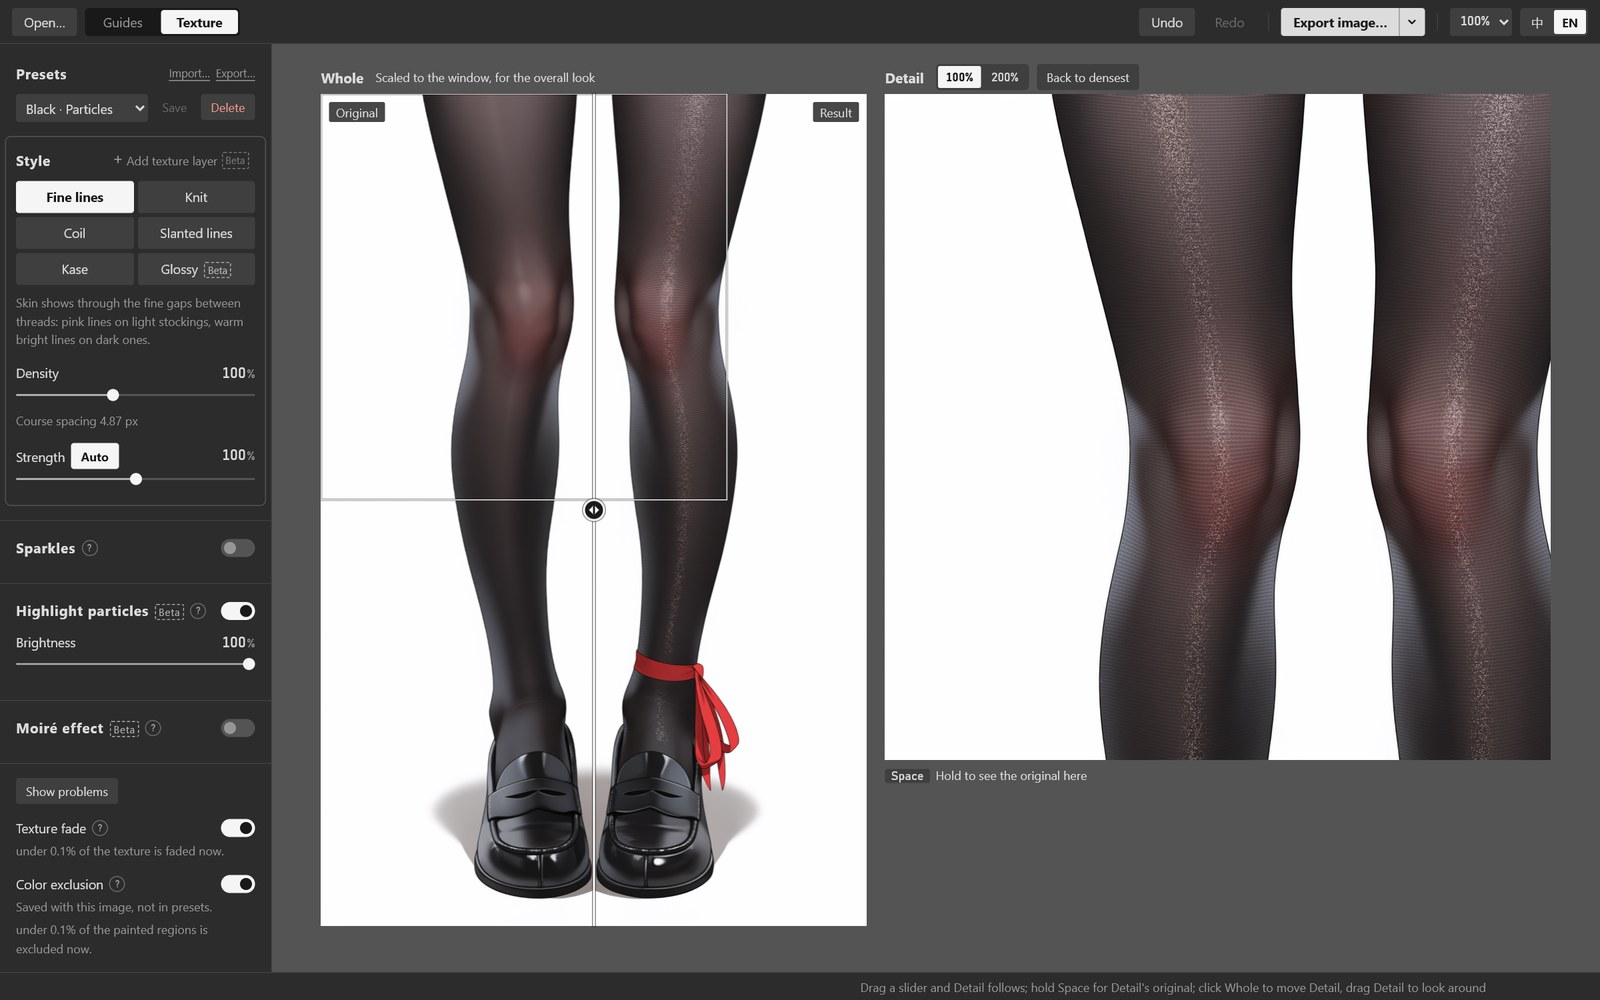
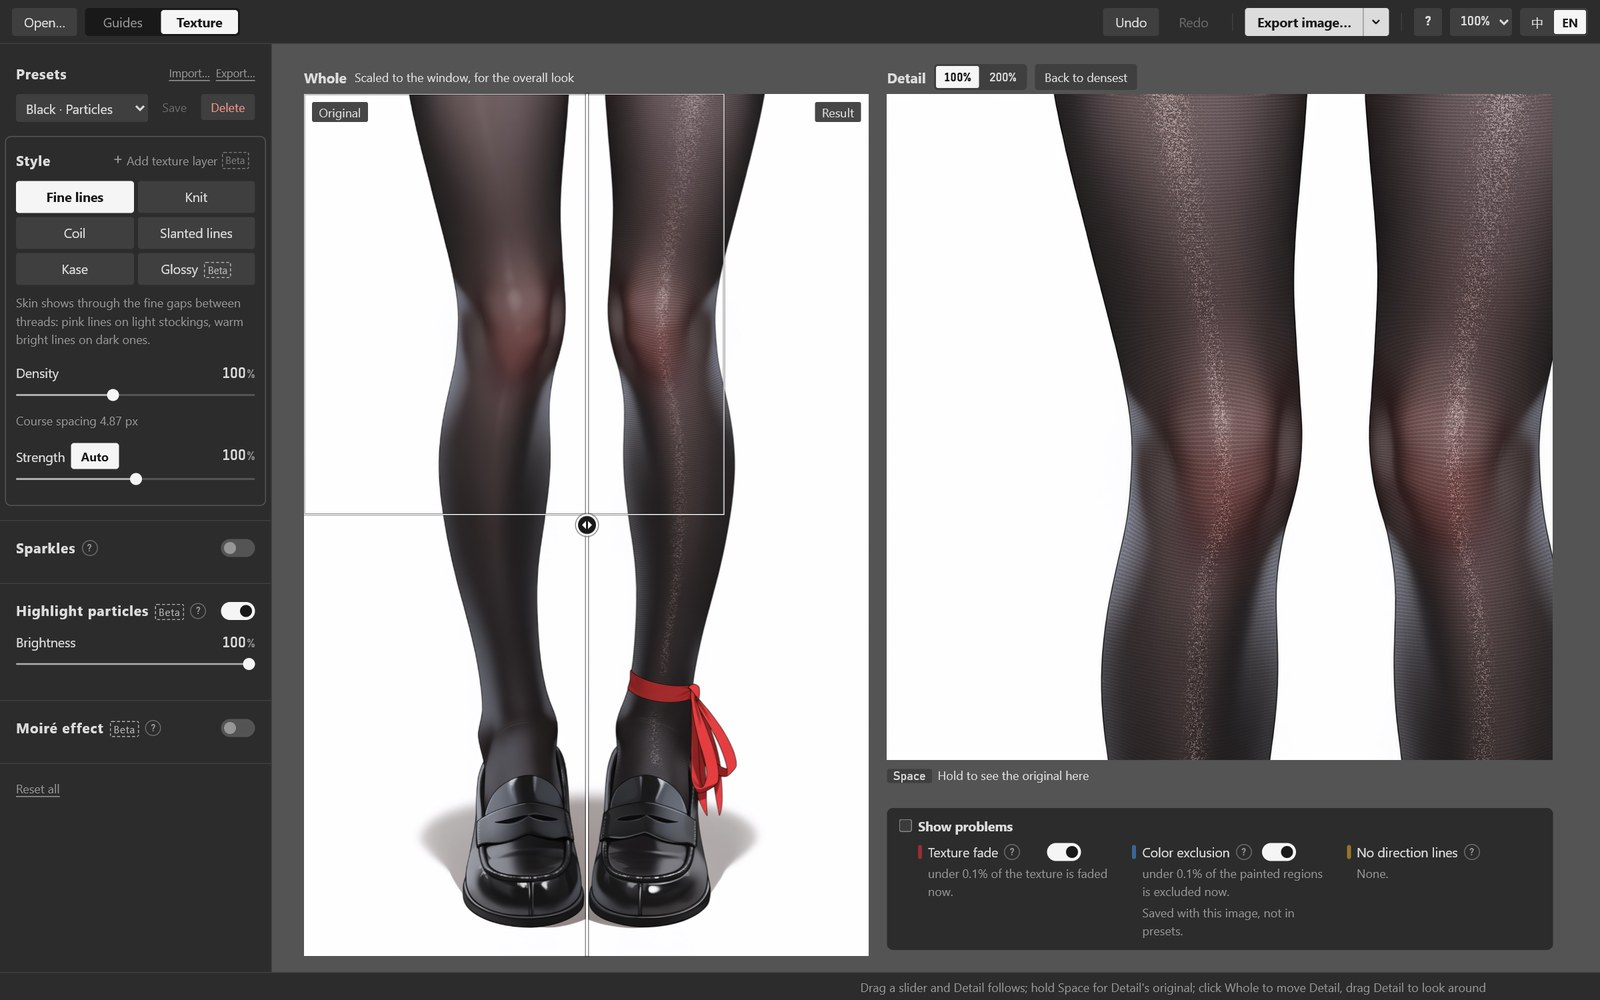
README: show the shortcut entry and the new check group
Retake the six page views in both languages. Keep the preset sharing
composites and the canvas-only examples, which do not show the changed
controls.

Record the read-only retake and include texture fade in both READMEs'
preset lists.

diff --git a/README.en.md b/README.en.md
@@ -21,7 +21,7 @@ Black or white stockings alike (original on the left, processed on the right):
 - **Six styles:** Fine lines, Knit, Coil, Slanted lines, Kase and Glossy (Beta). Each can add sparkles where the yarn catches the light.
 - **Texture layers (Beta):** lay up to four textures over each other by percentage, say Fine lines 30% and Kase 70%, all on the same direction lines.
 - **Highlight particles (Beta):** finds the continuous highlight bands along the lit parts of the leg the way Glossy does and draws them as fine particles instead of a smooth band, over any style.
-- **Presets:** save a tuned style, density, tilt, strength, texture layers, sparkles, highlight particles and moiré effect, and load them in one click on another image, or export them as a small file to give to someone.
+- **Presets:** save a tuned style, density, tilt, strength, texture layers, sparkles, highlight particles, moiré effect and texture fade, and load them in one click on another image, or export them as a small file to give to someone.
 - **Black or white stockings.** Strength follows the stockings' lightness: the same texture stands out about twice as much on white, so it is turned down there automatically.
 - **No moiré.** Where the courses get close to a pixel apart the texture fades out by itself, and Show problems marks where that happens.
 - **A beta switch for when you do want moiré.** The rippling bands of light and dark that real stockings show worn in layers or photographed: turn on the Moiré effect switch, then use Contrast for how much the bands lighten and darken the stockings and Area for how far they grow from one small ring. Off by default; the bands follow the bulges of the knees and thighs and leave the flat parts alone.
@@ -211,9 +211,9 @@ Kase's share 0% / 30% / 70% / 100% (the rest is Fine lines; left to right), the 
 
 ![Fine lines and Kase mixed in different ratios: from left to right Fine lines, Fine lines 70% with Kase 30%, Fine lines 30% with Kase 70%, Kase](docs/images/layers-mix.png)
 
-**Presets** (top of the panel): save a tuned style, density, tilt, strength, texture layers, sparkles, highlight particles and moiré effect, and load them in one click on other images. Pick one in the list to load it; after tweaking, Save writes the current settings into the selected preset. If the settings already match, Save is greyed out and explains what to do. To make a new one, pick “Save as new preset…” at the bottom of the list and give it a name (Save does the same when no preset is selected); Delete removes the selected one. Presets are kept on this computer, not with the image; if Strength is on Auto, it is set again from this image's stockings when you load. Loading replaces the current settings; press Ctrl+Z (or Undo in the top bar) to go back, and the preset selected in the list goes back with them. After tweaking, Restore beside it puts the preset's settings back. Regions and direction lines belong to each image and are not part of a preset.
+**Presets** (top of the panel): save a tuned style, density, tilt, strength, texture layers, sparkles, highlight particles, moiré effect and texture fade, and load them in one click on other images. Pick one in the list to load it; after tweaking, Save writes the current settings into the selected preset. If the settings already match, Save is greyed out and explains what to do. To make a new one, pick “Save as new preset…” at the bottom of the list and give it a name (Save does the same when no preset is selected); Delete removes the selected one. Presets are kept on this computer, not with the image; if Strength is on Auto, it is set again from this image's stockings when you load. Loading replaces the current settings; press Ctrl+Z (or Undo in the top bar) to go back, and the preset selected in the list goes back with them. After tweaking, Restore beside it puts the preset's settings back. Regions and direction lines belong to each image and are not part of a preset.
 
-**Exporting and importing presets:** to give a tuned preset to someone, select it and click Export… beside the heading to save it as a small file (`.json`); they click Import…, pick the file, and it shows up in their presets. An imported preset whose name is already taken gets a number after it (say “Black (2)”) and never replaces one they already have. The file holds only the settings (style, density, tilt, strength, texture layers, sparkles, highlight particles and moiré effect), no picture and no direction lines.
+**Exporting and importing presets:** to give a tuned preset to someone, select it and click Export… beside the heading to save it as a small file (`.json`); they click Import…, pick the file, and it shows up in their presets. An imported preset whose name is already taken gets a number after it (say “Black (2)”) and never replaces one they already have. The file holds only the settings (style, density, tilt, strength, texture layers, sparkles, highlight particles, moiré effect and texture fade), no picture and no direction lines.
 
 ![Exporting and importing a preset. Top: a preset is selected, Export… is clicked, and the status bar says where the file went, D:\presets. Bottom: Import… is clicked and the file picked; a preset with that name already exists, so the imported one is called “Black · Fine lines (2)” and nothing is replaced](docs/images/presets-share-en.png)
 

diff --git a/README.md b/README.md
@@ -21,7 +21,7 @@
 - **六种样式：** 细线、针织、线圈、斜单线、加濑风、油光（试验）。每种都能加纱线反光的亮点。
 - **纹理层（试验）：** 最多把四种纹理按百分比叠在一起，比如细线 30%、加濑风 70%，都按同一套走向线画。
 - **高光粒子（试验）：** 像油光那样顺着受光处找出整条腿的高光带，画成细密的粒子而不是平滑光带，可以叠在任何样式上。
-- **预设：** 调好的样式、密度、斜度、强度、纹理层、亮点、高光粒子和摩尔纹效果可以存成预设，换一张图一键读取，也能导出成小文件发给别人。
+- **预设：** 调好的样式、密度、斜度、强度、纹理层、亮点、高光粒子、摩尔纹效果和纹理减弱可以存成预设，换一张图一键读取，也能导出成小文件发给别人。
 - **白丝黑丝都行。** 强度按丝袜深浅自动设定：同样的纹理在白丝上显眼一倍，白丝会自动调低。
 - **不出摩尔纹。** 横纹太密、接近像素大小的地方，纹理会自动减弱；「标出问题」会把这些地方标出来。
 - **想要摩尔纹时有个试验开关。** 真丝袜叠穿、拍照时那种水波似的明暗条纹，打开「摩尔纹效果」的开关，再用「明暗」调条纹的明暗差别、「面积」调它从一小圈扩到多大。默认关；条纹顺着膝盖、大腿这些鼓起的地方走，平的地方没有。
@@ -211,9 +211,9 @@ GitHub 下载失败的文件，会改从各自的原始来源下载（PyPI、PyT
 
 ![细线和加濑风按不同比例叠在一起：从左到右依次是细线、细线 70% 加加濑风 30%、细线 30% 加加濑风 70%、加濑风](docs/images/layers-mix.png)
 
-**预设**（面板最上面）：把调好的样式、密度、斜度、强度、纹理层、亮点、高光粒子和摩尔纹效果存起来，以后在别的图上一键读取。在下拉里选一个就读取；调过之后点「保存」，就把现在的设置更新进选着的这个预设。设置与预设一致时，「保存」变灰并提示先改动再保存。想存成新的，选下拉最下面的「保存为新预设…」起个名字（没选预设时点「保存」也一样）；「删除」删掉选中的那个。预设存在这台电脑上，不跟图走；强度是「自动」的话，读取后会按这张图的丝袜深浅重新设定。读取会换掉现在的设置，按 Ctrl+Z（或顶栏的「撤销」）可以回去，下拉里选中的预设也一起退回；调过之后想回到预设原样，点旁边的「还原」。部位和走向线是每张图自己的，不在预设里。
+**预设**（面板最上面）：把调好的样式、密度、斜度、强度、纹理层、亮点、高光粒子、摩尔纹效果和纹理减弱存起来，以后在别的图上一键读取。在下拉里选一个就读取；调过之后点「保存」，就把现在的设置更新进选着的这个预设。设置与预设一致时，「保存」变灰并提示先改动再保存。想存成新的，选下拉最下面的「保存为新预设…」起个名字（没选预设时点「保存」也一样）；「删除」删掉选中的那个。预设存在这台电脑上，不跟图走；强度是「自动」的话，读取后会按这张图的丝袜深浅重新设定。读取会换掉现在的设置，按 Ctrl+Z（或顶栏的「撤销」）可以回去，下拉里选中的预设也一起退回；调过之后想回到预设原样，点旁边的「还原」。部位和走向线是每张图自己的，不在预设里。
 
-**导出和导入预设：** 想把调好的预设发给别人，选中它，点标题右边的「导出…」存成一个小文件（`.json`）；对方点「导入…」选这个文件，它就出现在对方的预设里。导入的预设如果和已有的重名，会在名字后面加个序号（比如「黑丝 (2)」），不会覆盖对方自己的。文件里只有样式、密度、斜度、强度、纹理层、亮点、高光粒子和摩尔纹效果这些设置，不含图片和走向线。
+**导出和导入预设：** 想把调好的预设发给别人，选中它，点标题右边的「导出…」存成一个小文件（`.json`）；对方点「导入…」选这个文件，它就出现在对方的预设里。导入的预设如果和已有的重名，会在名字后面加个序号（比如「黑丝 (2)」），不会覆盖对方自己的。文件里只有样式、密度、斜度、强度、纹理层、亮点、高光粒子、摩尔纹效果和纹理减弱这些设置，不含图片和走向线。
 
 ![预设的导出和导入：左边选中一个预设，点「导出…」，状态栏说文件存到了 D:\预设；右边点「导入…」选这个文件，库里已有同名预设，所以导进来的叫「黑丝·细线 (2)」，没有覆盖](docs/images/presets-share.png)
 
